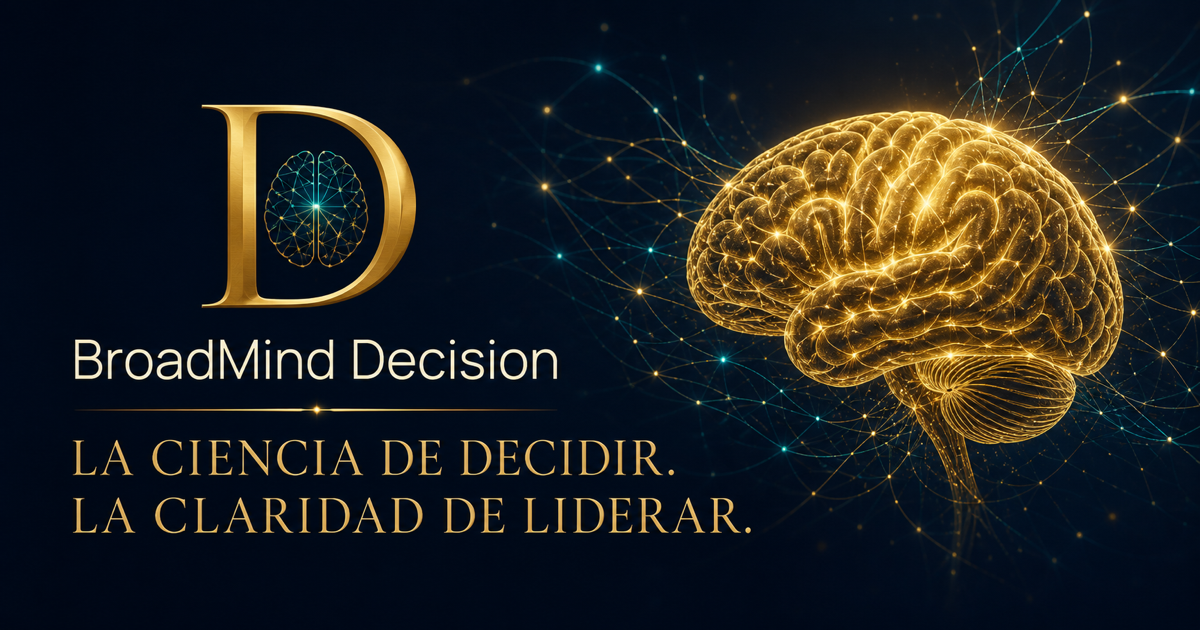
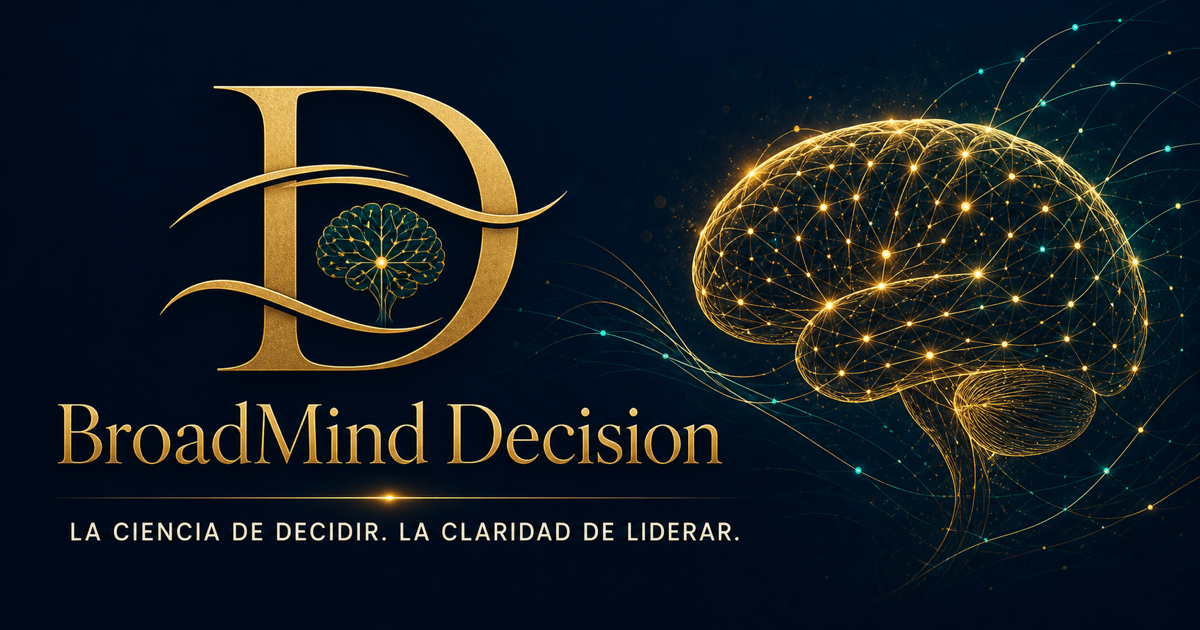
Adopt Concepto 02 brand identity

diff --git a/app/globals.css b/app/globals.css
@@ -75,102 +75,17 @@ a {
 
 .brand {
   display: flex;
-  width: 274px;
-  height: 54px;
+  width: 292px;
+  height: 76px;
   align-items: center;
-  gap: 14px;
+  overflow: visible;
 }
 
-.logo-mark {
-  position: relative;
+.brand-logo {
   display: block;
-  width: 48px;
-  height: 48px;
-  flex: 0 0 48px;
-}
-
-.logo-mark::before {
-  position: absolute;
-  inset: 2px 1px 2px 5px;
-  border: 1.25px solid var(--gold-light);
-  border-left: 0;
-  border-radius: 0 24px 24px 0;
-  box-shadow: 0 0 24px rgba(198, 161, 91, 0.06);
-  content: "";
-}
-
-.logo-d-stem {
-  position: absolute;
-  z-index: 2;
-  top: 2px;
-  bottom: 2px;
-  left: 5px;
-  width: 1.25px;
-  background: var(--gold-light);
-}
-
-.logo-d-stem::before,
-.logo-d-stem::after {
-  position: absolute;
-  left: 0;
-  width: 11px;
-  height: 1.25px;
-  background: var(--gold-light);
-  content: "";
-}
-
-.logo-d-stem::before { top: 0; }
-.logo-d-stem::after { bottom: 0; }
-
-.logo-mark img {
-  position: absolute;
-  z-index: 1;
-  top: 9px;
-  left: 7px;
-  width: 33px;
-  height: 31px;
+  width: 100%;
+  height: 100%;
   object-fit: contain;
-}
-
-.logo-copy {
-  display: flex;
-  min-width: 0;
-  flex-direction: column;
-  justify-content: center;
-}
-
-.logo-name {
-  display: flex;
-  align-items: baseline;
-  gap: 5px;
-  color: var(--ivory);
-  line-height: 1;
-  white-space: nowrap;
-}
-
-.logo-name strong {
-  font-size: 16px;
-  font-weight: 630;
-  letter-spacing: -0.045em;
-}
-
-.logo-name em {
-  color: var(--gold-light);
-  font-family: var(--font-serif), Georgia, serif;
-  font-size: 22px;
-  font-style: normal;
-  font-weight: 500;
-  letter-spacing: -0.035em;
-}
-
-.logo-signature {
-  margin-top: 6px;
-  color: rgba(255, 255, 255, 0.42);
-  font-size: 6.5px;
-  font-weight: 700;
-  letter-spacing: 0.22em;
-  text-transform: uppercase;
-  white-space: nowrap;
 }
 
 .nav-links {
@@ -1087,7 +1002,8 @@ h2 em {
 }
 
 .footer-brand {
-  width: 274px;
+  width: 334px;
+  height: 112px;
 }
 
 .footer-main > p {
@@ -1176,34 +1092,12 @@ h2 em {
 
   .brand {
     width: 226px;
-    height: 48px;
-    gap: 10px;
+    height: 62px;
   }
 
-  .logo-mark {
-    width: 42px;
-    height: 42px;
-    flex-basis: 42px;
-  }
-
-  .logo-mark img {
-    top: 8px;
-    left: 6px;
-    width: 29px;
-    height: 27px;
-  }
-
-  .logo-name strong {
-    font-size: 14px;
-  }
-
-  .logo-name em {
-    font-size: 19px;
-  }
-
-  .logo-signature {
-    margin-top: 5px;
-    font-size: 5.5px;
+  .footer-brand {
+    width: 286px;
+    height: 94px;
   }
 
   .menu-toggle {

diff --git a/app/page.tsx b/app/page.tsx
@@ -41,18 +41,13 @@ const process = [
   ["04", "Decidir", "Convertimos el análisis en una decisión accionable y medible."],
 ];
 
-function BrandLogo() {
+function BrandLogo({ full = false }: { full?: boolean }) {
   return (
-    <>
-      <span className="logo-mark" aria-hidden="true">
-        <span className="logo-d-stem" />
-        <img src="/images/brand-neural-core.png" alt="" />
-      </span>
-      <span className="logo-copy">
-        <span className="logo-name"><strong>BroadMind</strong><em>Decision</em></span>
-        <span className="logo-signature">Neuro-strategic advisory</span>
-      </span>
-    </>
+    <img
+      className="brand-logo"
+      src={full ? "/images/brand-concept02-full.png" : "/images/brand-concept02-nav.png"}
+      alt="BroadMind Decision"
+    />
   );
 }
 
@@ -418,7 +413,7 @@ export default function Home() {
 
       <footer className="site-footer">
         <div className="shell footer-main">
-          <a className="brand footer-brand" href="#inicio" aria-label="BroadMind Decision, volver al inicio"><BrandLogo /></a>
+          <a className="brand footer-brand" href="#inicio" aria-label="BroadMind Decision, volver al inicio"><BrandLogo full /></a>
           <p>Executive Coaching &amp;<br />Strategic Consulting</p>
           <div className="footer-nav">
             {navItems.map(([label, href]) => <a href={href} key={href}>{label}</a>)}
